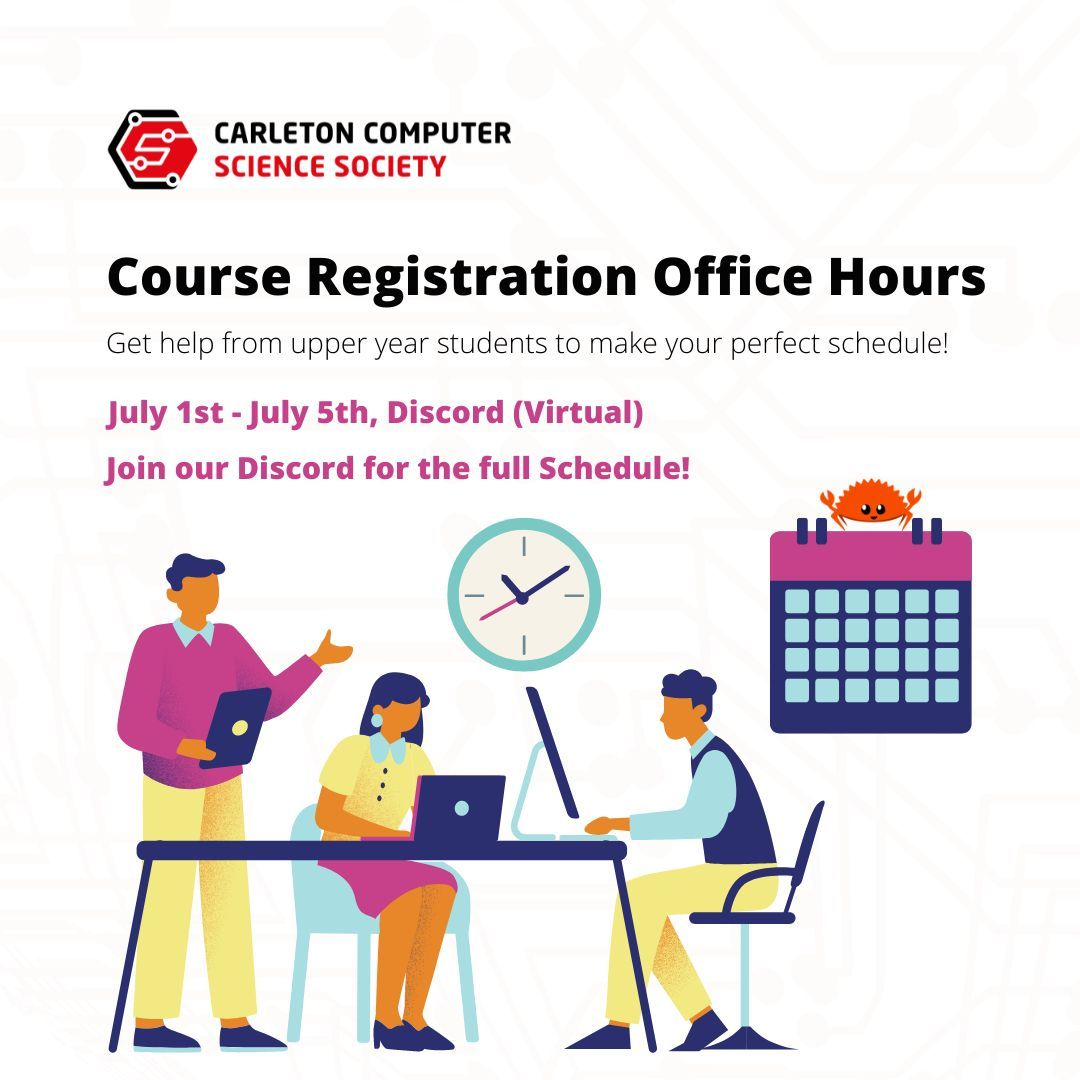
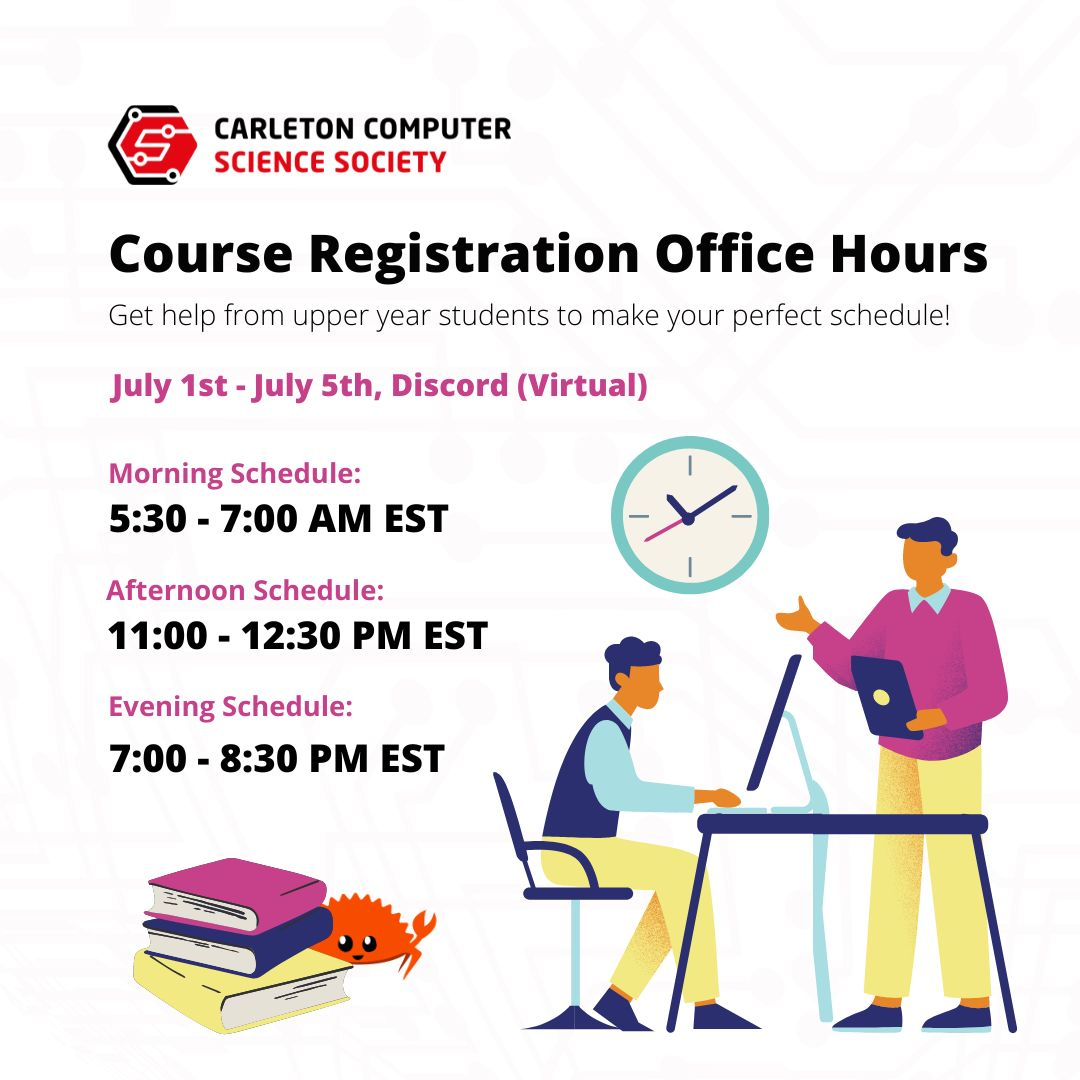
update office hours event schedule

diff --git a/content/events/2024-2025/2024-07-01-course-registration-office-hours.md b/content/events/2024-2025/2024-07-01-course-registration-office-hours.md
@@ -8,7 +8,7 @@ poster: "images/event_posters/2024-2025/course-registration-office-hours.jpg"
 poster_cover: "contain"
 poster_position: "center"
 short_description: "Get help from upper year students to make your perfect schedule!"
-start_time: "Schedule coming soon!"
+start_time: "5:30 - 7:00 AM, 11:00 - 12:30 PM, 7:00 - 8:30 PM EST"
 location: "Discord"
 location_link: "https://discord.gg/vXZRcGUgbV"
 background: "images/orientation2018-min.jpeg"
